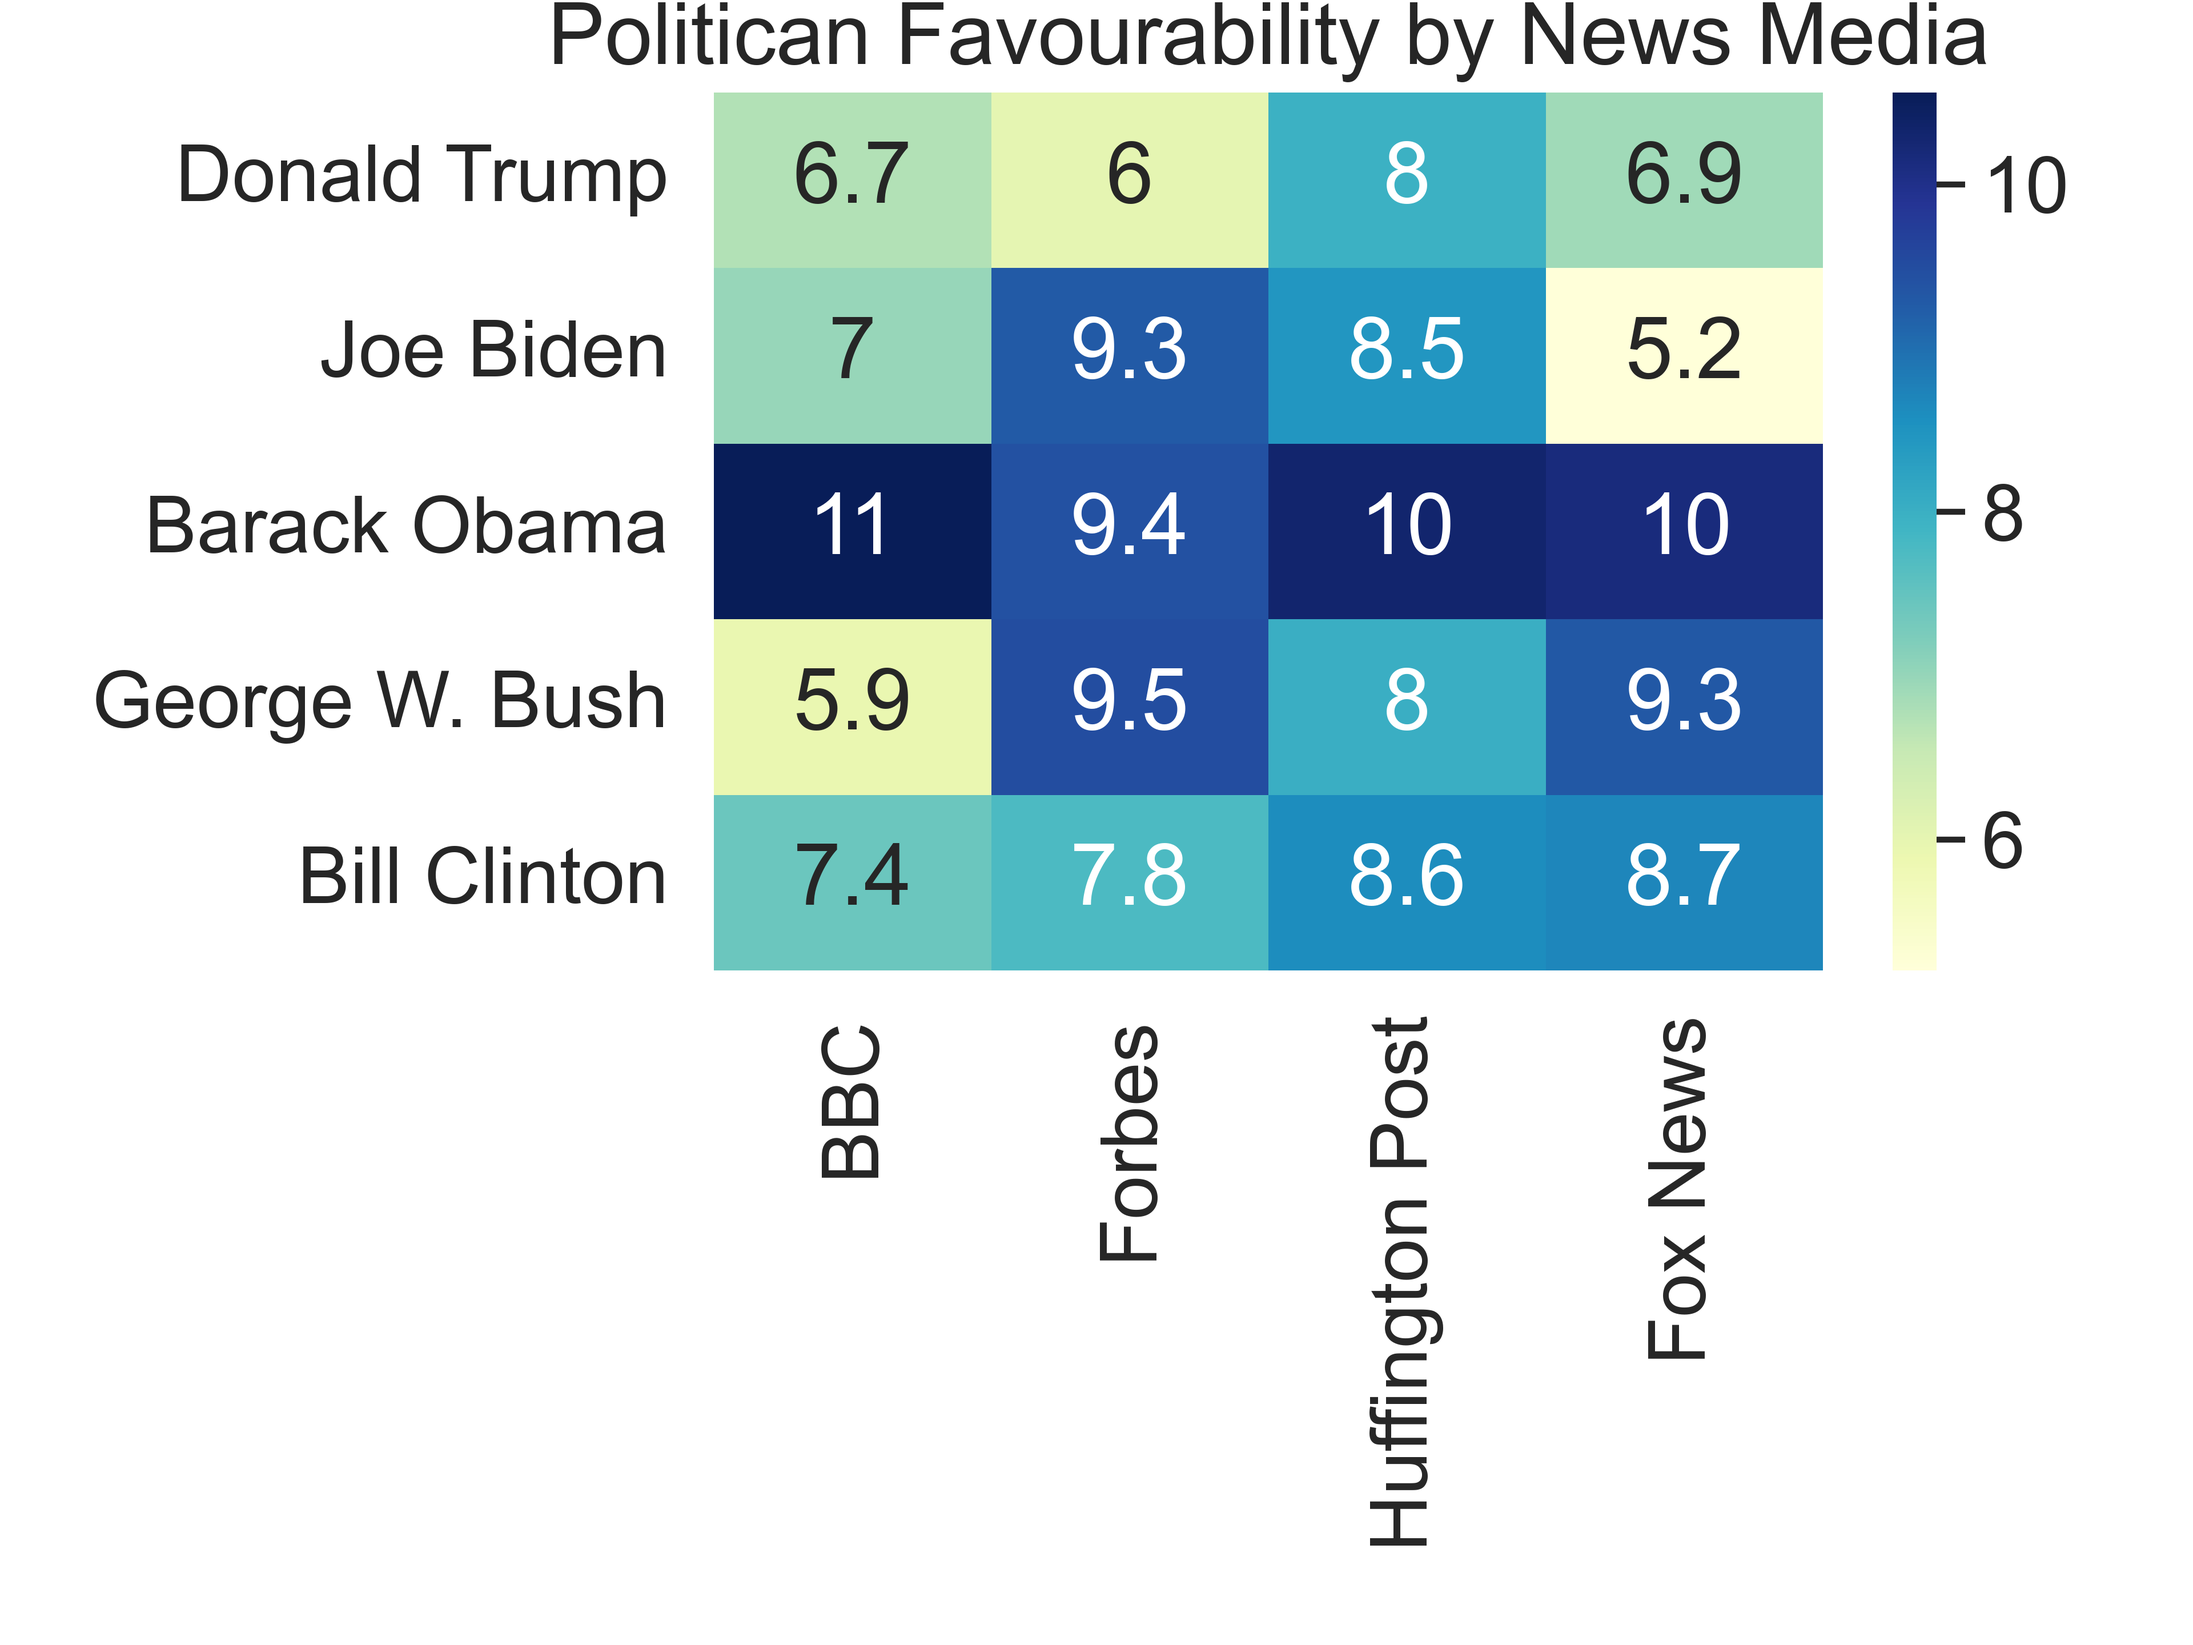
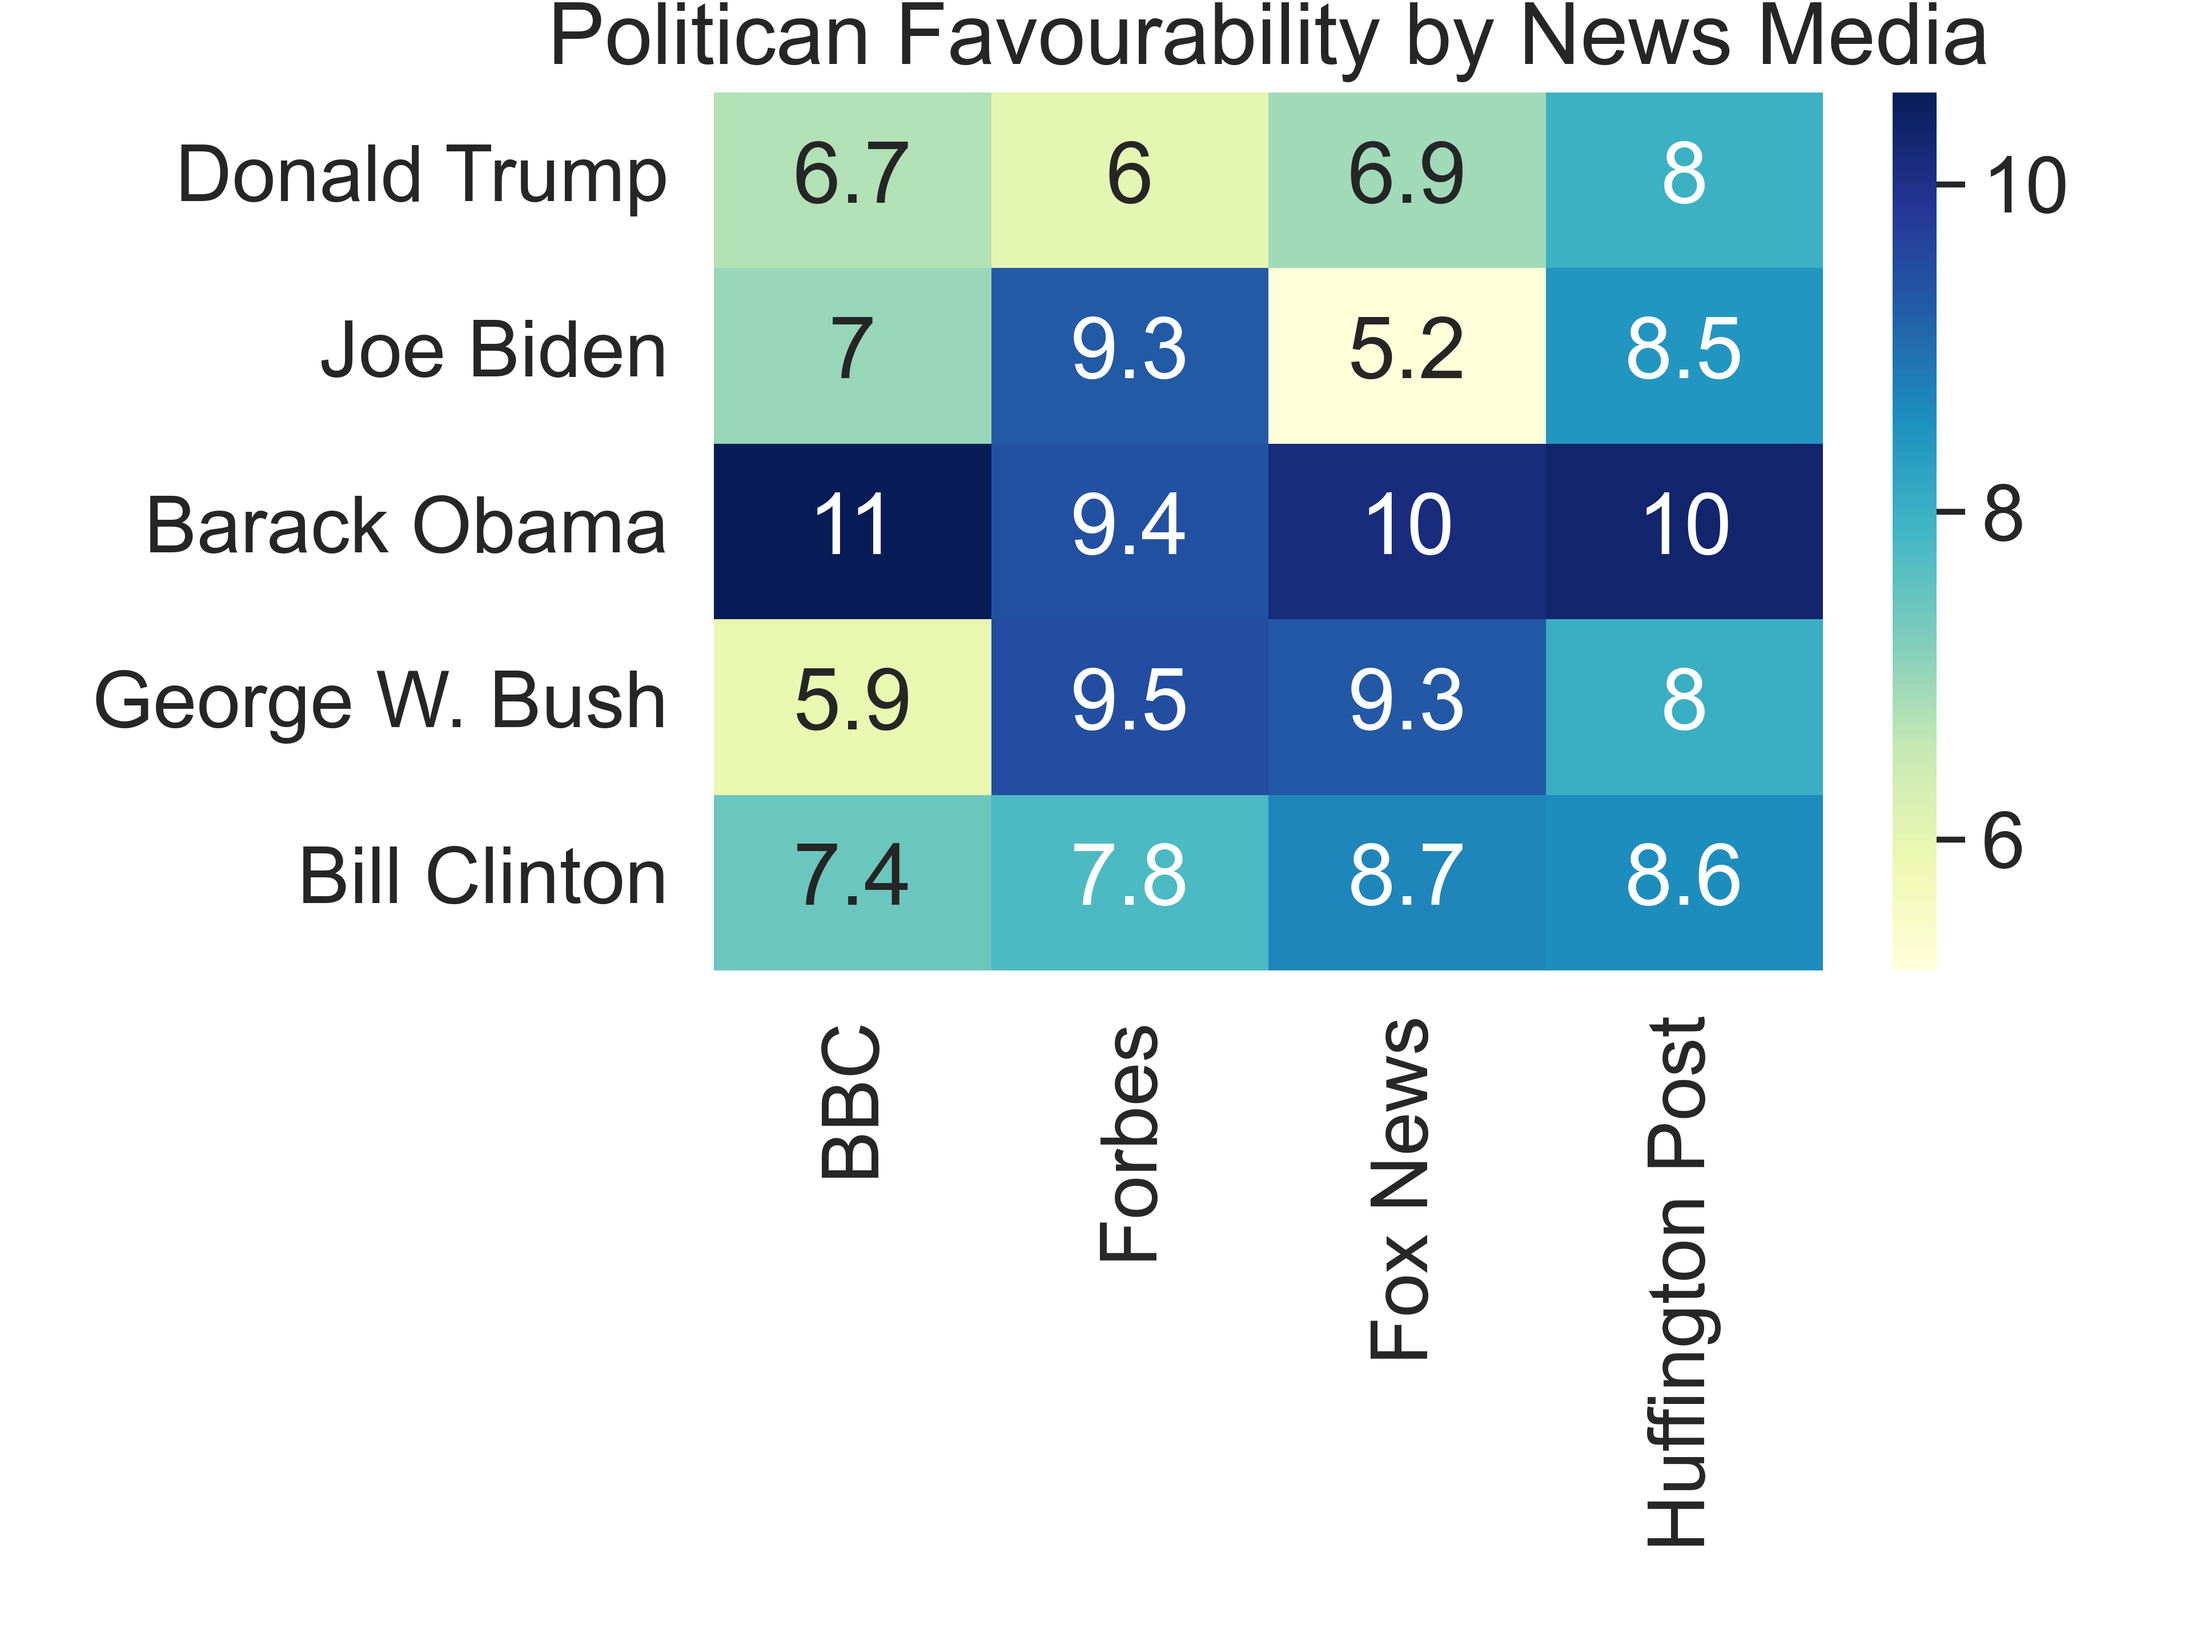
Heatmap insights

diff --git a/Heatmap/heatmap_insights.py b/Heatmap/heatmap_insights.py
@@ -1,0 +1,154 @@
+files = ["averages_bbc.txt", "averages_forbes.txt",  "averages_fox_news.txt", "averages_huff_post.txt"]
+names = ["BBC", "Forbes", "Fox News", "Huffington Post"]
+presidents = ["Donald Trump", "Joe Biden", "Barack Obama", "George W. Bush", "Bill Clinton"]
+party = ["Republican", "Democratic", "Democratic", "Republican", "Democratic"]
+folder = "Heatmap/"
+
+
+def largest(array, max):
+    for item in array:
+        if item > max:
+            max = item
+    return max
+
+def smallest(array, min):
+    for item in array:
+        if item < min:
+            min = item
+    return min
+
+def max_and_min(folder, file):
+    file = open(folder + file, "r")
+    max = -1
+    min = 1000
+    array = []
+    item_largest = []
+    item_smallest = []
+
+    for line in file:
+        value = float(line.split(", ")[1].strip("\n").strip("%"))
+        array.append(value)
+    file.close()
+
+    found_largest = largest(array, max)
+    found_smallest = smallest(array, min)
+
+
+    for j in range(0, len(array)):
+        if array[j] == found_largest:
+            item_largest.append(j)
+
+    for j in range(0, len(array)):
+        if array[j] == found_smallest:
+            item_smallest.append(j)          
+
+    return item_largest, item_smallest
+
+# Finding the most favoured and the most disfavoured politican for each website
+max_and_mins = []
+for i in range(0, len(files)):
+    max_and_mins.append(max_and_min(folder, files[i]))
+
+largest_items = []
+smallest_items = []
+for i in range(0, len(max_and_mins)):
+    largest_items.append(max_and_mins[i][0])
+    smallest_items.append(max_and_mins[i][1])
+    
+        
+
+# finding the most favoured politican
+percentage = []
+max = -1
+file = open(folder + "heatmap_data.csv", "r")
+for line in file:
+    percentages = 0
+    for i in range (1, len(files)+1):
+        split_line = line.split(", ")[i].strip("\n")
+        percentages += float(split_line.strip("%"))
+    percentage.append(percentages)
+file.close()
+
+
+largest_percentage = largest(percentage, max)
+for i in range(0, len(percentage)):
+    if percentage[i] == largest_percentage:
+        most_favoured = i
+
+
+
+# Favouring of political party
+democratic = 0
+republican = 0
+array = []
+party_fav = []
+party_favoured = []
+
+file = open(folder + "heatmap_data.csv", "r")
+for line in file:
+    separated = line.split(", ")
+    array.append(separated)
+file.close()
+
+numr = 0
+numd = 0
+for j in range(1, 5):
+    for item in range(0, len(array)):
+        if party[item] ==  "Democratic":
+            democratic += float(array[item][j].strip("\n").strip("%"))
+            numd += 1
+        if party[item] == "Republican":
+            republican += float(array[item][j].strip("\n").strip("%"))
+            numr += 1
+    party_fav.append([democratic/numd, republican/numr])
+
+dem_faved = 0
+rep_faved = 0
+for item in party_fav:
+    if item[0] > item[1]:
+        party_favoured.append("Democratic")
+        dem_faved += 1 
+    elif item[0] < item[1]:
+        party_favoured.append("Republican")
+        rep_faved += 1 
+    else:
+        party_favoured.append("No party preferance")
+
+
+
+# overall party favoured:
+if dem_faved > rep_faved:
+    overall_party_fav = "Democratic"
+elif rep_faved > dem_faved:
+    overall_party_fav = "Republican"
+else:
+    overall_party_fav = "No overall party favoured"
+
+
+for i in range (0, len(files)):
+    most_fav = "Most favoured politican(s): "
+    least_fav = "Least favoured politican(s): "
+    print(names[i])
+    large = largest_items[i]
+    small = smallest_items[i]
+    count_large = 0
+    count_small = 0
+    for item in large:
+        length = len(large)
+        count_large += 1
+        most_fav += presidents[item]
+        if count_large != length:
+            most_fav += ", "
+    for item in small:
+        length = len(small)
+        count_small += 1
+        least_fav += presidents[item]
+        if count_small != length:
+            least_fav += ", "
+    print(most_fav)
+    print(least_fav)
+    print(f'Political Party Favoured: {party_favoured[i]}')
+    print("\n")
+
+print(f'Most favoured president overall: {presidents[most_favoured]}')
+print(f'The overall political party favoured: {overall_party_fav}')

diff --git a/Heatmap/heatmap.py b/Heatmap/heatmap.py
@@ -5,7 +5,7 @@ from pylab import savefig
 import os 
 
 # Data to heatmap
-files = ["averages_bbc.txt", "averages_forbes.txt", "averages_huff_post.txt", "averages_fox_news.txt"]
+files = ["averages_bbc.txt", "averages_forbes.txt", "averages_fox_news.txt", "averages_huff_post.txt"]
 array_name = []
 array_data = []
 folder = "Heatmap"
@@ -42,9 +42,9 @@ for line in file:
     separated = line.split(", ")
     bbc = separated[1].strip("%")
     forbes = separated[2].strip("%")
-    huff_post=separated[3].strip("%")
-    fox_news=separated[4].strip("\n")
-    list = [float(bbc), float(forbes),float(huff_post),float(fox_news.strip('%'))]
+    fox_news=separated[3].strip("%")
+    huff_post=separated[4].strip("\n")
+    list = [float(bbc), float(forbes),float(fox_news),float(huff_post.strip('%'))]
     array.append(list)
 file.close()
 
@@ -52,7 +52,7 @@ file.close()
 df_cm = pd.DataFrame(array)
 
 sn.set(font_scale = 1.5)
-svm = sn.heatmap(df_cm, annot = True, cmap = 'YlGnBu', yticklabels = ["Donald Trump", "Joe Biden", "Barack Obama", "George W. Bush", "Bill Clinton"], xticklabels = ["BBC", "Forbes", "Huffington Post", "Fox News"])
+svm = sn.heatmap(df_cm, annot = True, cmap = 'YlGnBu', yticklabels = ["Donald Trump", "Joe Biden", "Barack Obama", "George W. Bush", "Bill Clinton"], xticklabels = ["BBC", "Forbes", "Fox News", "Huffington Post"])
 plt.rcParams["figure.autolayout"] = True
 plt.tight_layout()
 plt.title("Politican Favourability by News Media")
